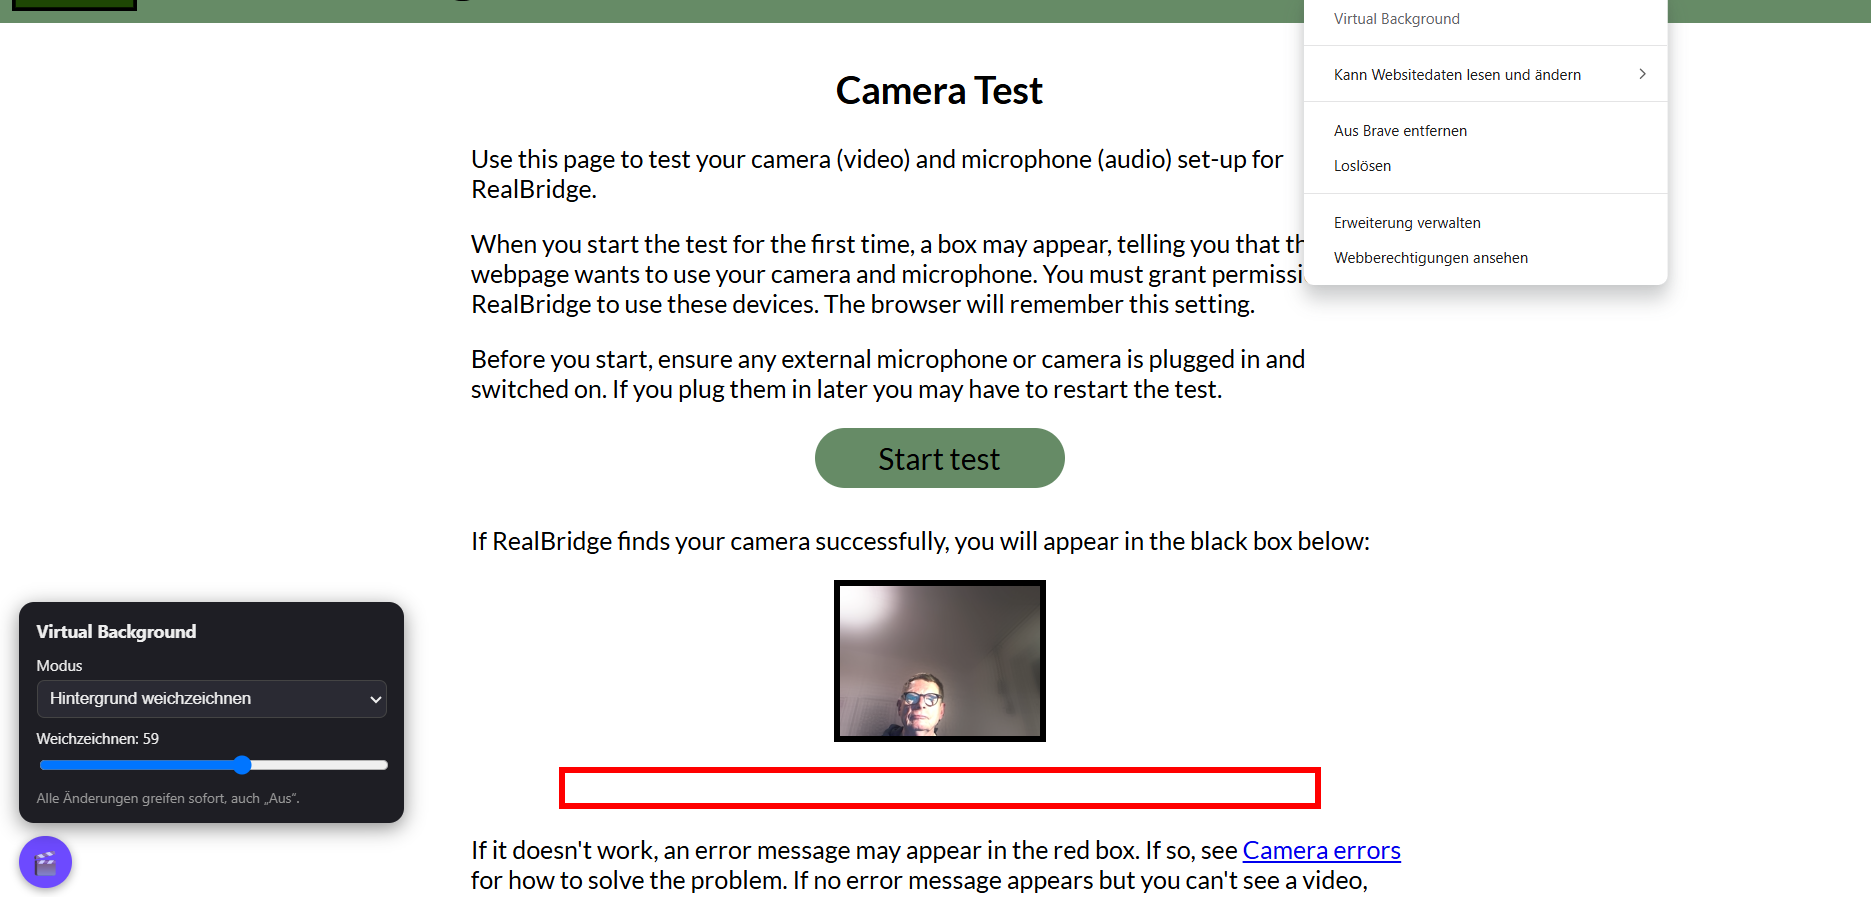
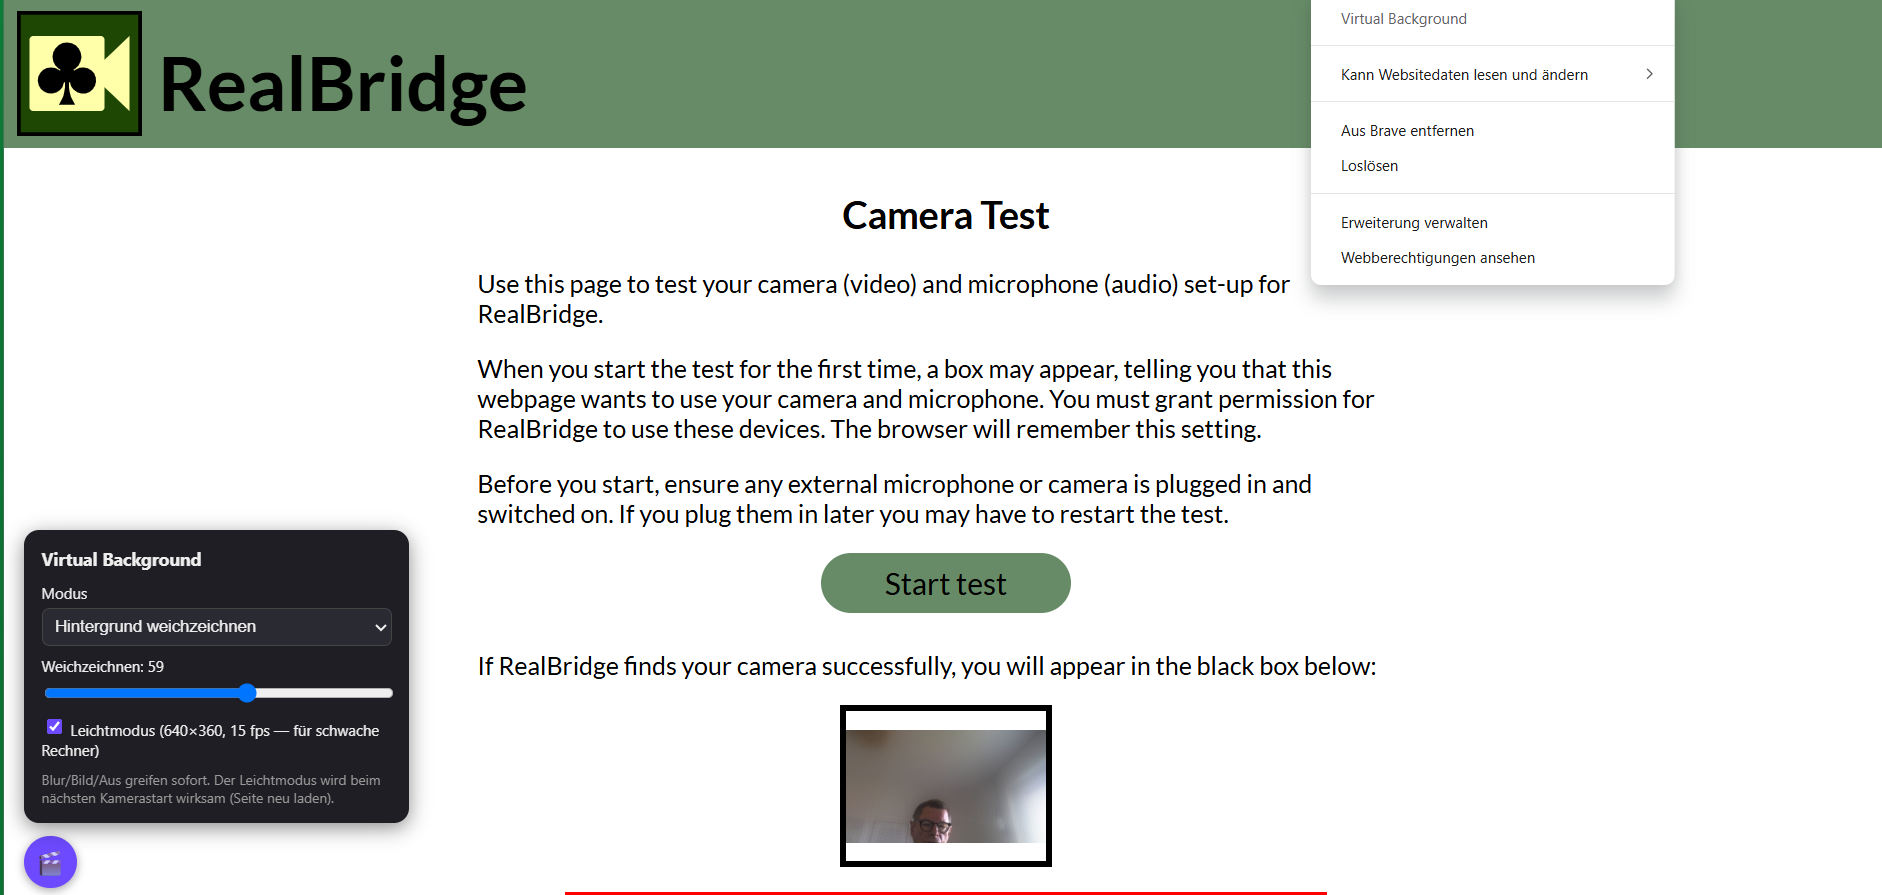
Add files via upload

diff --git a/inject.js b/inject.js
@@ -1,16 +1,19 @@
 /* ==========================================================================
-  FILE: inject.js
- - MAIN World (Seitenkontext)
- - getUserMedia-Hook + Live-Updates
- - Blur-Mapping v8: das Shader-Gewicht exp(-offset^2/(2*sigma^2)) macht die
- SICHTBARE Unschraefe allein vom Sigma abhaengig (~ +/-3 sigma Texel).
- Die Schleife ist fix (24 x 21 Taps) -> Radius kostet nichts.
- bgBlur (Sigma) = slider  (1..100, kein Cap)
- bgBlurRadius   = slider*2 (Sample-Reichweite >= 3 sigma)
- - Eigenes Bild: options.backgroundUrl = dataURL — der Proxy-Setter laedt
- die Quelle selbst (fetch -> createImageBitmap -> backgroundSource-Objekt).
- - "Aus": options.enabled = false — Frames laufen live unveraendert durch.
- ========================================================================== */
+ *   FILE: inject.js
+ *   - MAIN World (Seitenkontext)
+ *   - getUserMedia-Hook + Live-Updates
+ *   - NEU in v9: Leichtmodus — vor dem Aufruf der nativen getUserMedia
+ *     werden die Video-Constraints weich gekappt (640x360 ideal, 15 fps
+ *     ideal). "ideal" ist nicht hart: keine Kamera scheitert daran, aber
+ *     Chrome waehlt auf schwachen Maschinen gern die kleinere Variante.
+ *     Leichtmodus wirkt beim Kamerastart (Seite neu laden).
+ *   - Blur: options.bgBlur = Sigma (Slider 1-100), options.bgBlurRadius =
+ *     2 x Slider. NICHT options.blur anfassen (Frame-Pre-Blur, nur mit
+ *     enableFilters aktiv — das wuerde die Person mitverwischen)!
+ *   - Eigenes Bild: options.backgroundUrl = dataURL — der Proxy-Setter
+ *     laedt die Quelle selbst (fetch -> createImageBitmap).
+ *   - "Aus": options.enabled = false — Frames laufen live unveraendert durch.
+ *   ========================================================================== */
 (() => {
   if (!navigator.mediaDevices || !navigator.mediaDevices.getUserMedia) return;
 
@@ -81,13 +84,10 @@
   };
 
   /* ---------- Einstellungen anwenden (live; Render-Loop liest jeden Frame) --
-   * Slider 1..100 -> Sigma 1..100 (sichtbare Unschraefe ~ +/-3 sigma Texel),
-   * Radius = 2x Slider (>= 3 sigma, damit der Gaussian nicht abgeschnitten
-   * wird). Fixe Tap-Anzahl: grosse Werte kosten keine zusaetzliche Leistung.
-   * WICHTIG: enableFilters NICHT setzen — options.blur wäre der falsche
-   * Hebel (blurriert den ganzen Frame inkl. Person, nur mit enableFilters). */
+   *     Slider 1-100 = Gauss-Sigma (Sigma bestimmt die sichtbare Unschärfe),
+   *     Radius = 2 x Slider (Sample-Reichweite; Tap-Anzahl ist fix im Shader,
+   *     der Radius kostet also nichts Extra). enableFilters NICHT setzen. */
   let lastBackgroundUrl = null;
-  let lastLoggedKey = '';
 
   const applySettings = (s) => {
     const opts = window.VirtualBackground.options;
@@ -96,9 +96,8 @@
 
     if (s.mode === 'blur') {
       opts.enabled = true;
-      opts.bgBlur = Math.max(1, blur);          // Sigma ohne Cap
-      opts.bgBlurRadius = Math.max(30, blur * 2); // Reichweite >= 3 sigma
-      // Hintergrundquelle unberührt lassen — der Blur-Zweig gewinnt im Shader.
+      opts.bgBlur = Math.max(1, blur);        // Sigma = Sliderwert
+      opts.bgBlurRadius = Math.max(2, blur * 2); // Sample-Reichweite
       lastBackgroundUrl = null;
     } else if (s.mode === 'image' && s.imageDataUrl) {
       opts.enabled = true;
@@ -114,15 +113,12 @@
       opts.enabled = false;
     }
 
-    const key = `${s.mode}|${blur}`;
-    if (key !== lastLoggedKey) {
-      lastLoggedKey = key;
-      console.log('[VB] angewendet:', s.mode,
-                  '| bgBlur (Sigma):', opts.bgBlur,
-                  '| bgBlurRadius:', opts.bgBlurRadius,
-                  '| enabled:', opts.enabled,
-                  '| backgroundUrl gesetzt:', s.mode === 'image' && !!s.imageDataUrl);
-    }
+    console.log('[VB] angewendet:', {
+      mode: s.mode,
+      blur: s.mode === 'blur' ? { sigma: opts.bgBlur, radius: opts.bgBlurRadius } : undefined,
+      image: s.mode === 'image' ? Boolean(s.imageDataUrl) : undefined,
+                enabled: opts.enabled
+    });
   };
 
   /* ---------- Live-Update: data-Attribut beobachten ---------- */
@@ -146,10 +142,39 @@
     }
   }, 500);
 
+  /* ---------- Leichtmodus: Video-Constraints weich kappen -------------------
+   *     Wichtig: ausschließlich "ideal"/weiche Werte — harte Constraints
+   *     ("max"/"exact") koennen auf manchen Kameras OverconstrainedError
+   *     werfen und den getUserMedia-Aufruf komplett scheitern lassen.
+   *     Wir stiften hier nur eine Praeferenz, kein Zwang. */
+  const LITE_VIDEO = { width: { ideal: 640 }, height: { ideal: 360 }, frameRate: { ideal: 15 } };
+
+  const capConstraints = (constraints) => {
+    // Kein Objekt (z. B. undefined) → sinnvolle Defaults mit Lite-Caps
+    const c = (constraints && typeof constraints === 'object') ? { ...constraints } : {};
+    // video: true/undefined → Objekt mit Caps; bereits Objekt → Caps hineinmergen;
+    // deviceId etc. bleiben erhalten.
+    if (c.video === true || c.video === undefined) c.video = { ...LITE_VIDEO };
+    else if (c.video && typeof c.video === 'object') c.video = { ...c.video, ...LITE_VIDEO };
+    // video: "deviceId"-String oder false → unangetastet lassen.
+    return c;
+  };
+
   /* ---------- getUserMedia-Hook ---------- */
   navigator.mediaDevices.getUserMedia = async function (constraints) {
-    console.log('getUserMedia:', JSON.stringify(constraints));
-    const mediaStream = await nativeGetUserMedia(constraints);
+    let effective = constraints;
+    try {
+      const cfg = await getCfg();
+      if (cfg.settings && cfg.settings.lite) {
+        effective = capConstraints(constraints);
+        console.log('[VB] Leichtmodus aktiv — Constraints gekappt:', JSON.stringify(effective));
+      }
+    } catch (e) {
+      /* keine Config da (noch keine Einstellungen veröffentlicht) —
+       *         normaler Aufruf ohne Caps */
+    }
+    console.log('getUserMedia:', JSON.stringify(effective));
+    const mediaStream = await nativeGetUserMedia(effective);
     const track = mediaStream.getVideoTracks()[0];
     if (track) {
       try {

diff --git a/content.js b/content.js
@@ -1,11 +1,12 @@
 /* ==========================================================================
- F I*LE: content.js
- - Isolated World: Resource-URLs + Einstellungen als data-Attribut,
-UI-Panel (Shadow DOM), Persistenz in chrome.storage.local
-========================================================================== */
+ *   FILE: content.js
+ *   - Isolated World: Resource-URLs + Einstellungen als data-Attribut,
+ *     UI-Panel (Shadow DOM), Persistenz in chrome.storage.local
+ *   - NEU in v9: Leichtmodus-Checkbox im Panel.
+ *   ========================================================================== */
 (() => {
   const SETTINGS_KEY = 'vbSettings';
-  const DEFAULT_SETTINGS = { mode: 'blur', blur: 20, imageDataUrl: null };
+  const DEFAULT_SETTINGS = { mode: 'blur', blur: 20, imageDataUrl: null, lite: false };
 
   const BASE_URLS = {
     lib: chrome.runtime.getURL('vendor/virtual-background.js'),
@@ -83,6 +84,11 @@ UI-Panel (Shadow DOM), Persistenz in chrome.storage.local
       border: 1px solid #444; background: #2a2a33; color: #eee;
     }
     .panel input[type=range] { width: 100%; }
+    .lite-row {
+      display: flex; align-items: center; gap: 8px;
+      font-size: 12px; margin-top: 10px; cursor: pointer;
+    }
+    .lite-row input { accent-color: #6d4aff; }
     .swatches { display: flex; gap: 6px; margin-top: 6px; }
     .swatches button {
       width: 34px; height: 34px; border-radius: 6px;
@@ -111,7 +117,12 @@ UI-Panel (Shadow DOM), Persistenz in chrome.storage.local
     <label>Voreinstellungen</label>
     <div class="swatches" id="vb-swatches"></div>
     </div>
-    <div class="hint">Alle Änderungen greifen sofort, auch „Aus“.</div>
+    <label class="lite-row">
+    <input type="checkbox" id="vb-lite" />
+    Leichtmodus (640×360, 15 fps — für schwache Rechner)
+    </label>
+    <div class="hint">Blur/Bild/Aus greifen sofort. Der Leichtmodus wird
+    beim nächsten Kamerastart wirksam (Seite neu laden).</div>
     </div>
     `;
 
@@ -124,6 +135,7 @@ UI-Panel (Shadow DOM), Persistenz in chrome.storage.local
     const blurVal = shadow.querySelector('#vb-blur-val');
     const fileInput = shadow.querySelector('#vb-file');
     const swatchBox = shadow.querySelector('#vb-swatches');
+    const liteCheck = shadow.querySelector('#vb-lite');
 
     PRESETS.forEach((p) => {
       const b = document.createElement('button');
@@ -151,6 +163,7 @@ UI-Panel (Shadow DOM), Persistenz in chrome.storage.local
       blurVal.textContent = s.blur;
       blurRow.style.display = s.mode === 'blur' ? 'block' : 'none';
       imgRow.style.display = s.mode === 'image' ? 'block' : 'none';
+      liteCheck.checked = !!s.lite;
     };
 
     const update = (partial) => {
@@ -164,6 +177,9 @@ UI-Panel (Shadow DOM), Persistenz in chrome.storage.local
     modeSel.addEventListener('change', () => update({ mode: modeSel.value }));
     blurInput.addEventListener('input', () =>
     update({ blur: Number(blurInput.value) })
+    );
+    liteCheck.addEventListener('change', () =>
+    update({ lite: liteCheck.checked })
     );
     fileInput.addEventListener('change', () => {
       const file = fileInput.files && fileInput.files[0];

diff --git a/README.md b/README.md
@@ -23,6 +23,9 @@ eigenes Bild. Basierend auf der Bibliothek
 - **Eigenes Hintergrundbild** — Vier Farb-Verlauf-Presets (Studio Grau, Blau,
   Grün, Abendrot) oder eigener Upload (JPEG/PNG/WebP, ~max. 4 MB).
 - **Aus** — Originalstream unverändert durchlassen.
+- **Leichtmodus** — Für schwächere Rechner: kappt die Kamera weich auf
+  640×360 @ 15 fps und entlastet CPU/GPU deutlich. Als Checkbox im Panel,
+  wirkt beim nächsten Kamerastart (Seite neu laden).
 - Alle Einstellungen greifen live und werden in `chrome.storage.local`
   persistent gespeichert. Steuerung über das 🎬-Panel unten links.
 
@@ -78,8 +81,9 @@ Der Kern dieser Erweiterung ist die Arbeit anderer — erwähnt sei gebührlich:
 ## Autor
 
 **airzinho** — [github.com/airzinho](https://github.com/airzinho)
-(Chrome-Extension-Wrapper, Panel, Presets, Options-Integration). Lizenz: MIT
-(siehe [LICENSE](LICENSE)). Bugs und Verbesserungsvorschläge gerne als Issue.
+(Chrome-Extension-Wrapper, Panel, Presets, Options-Integration, Leichtmodus).
+Lizenz: MIT (siehe [LICENSE](LICENSE)). Bugs und Verbesserungsvorschläge
+gerne als Issue.
 
 ## Lizenzen
 
